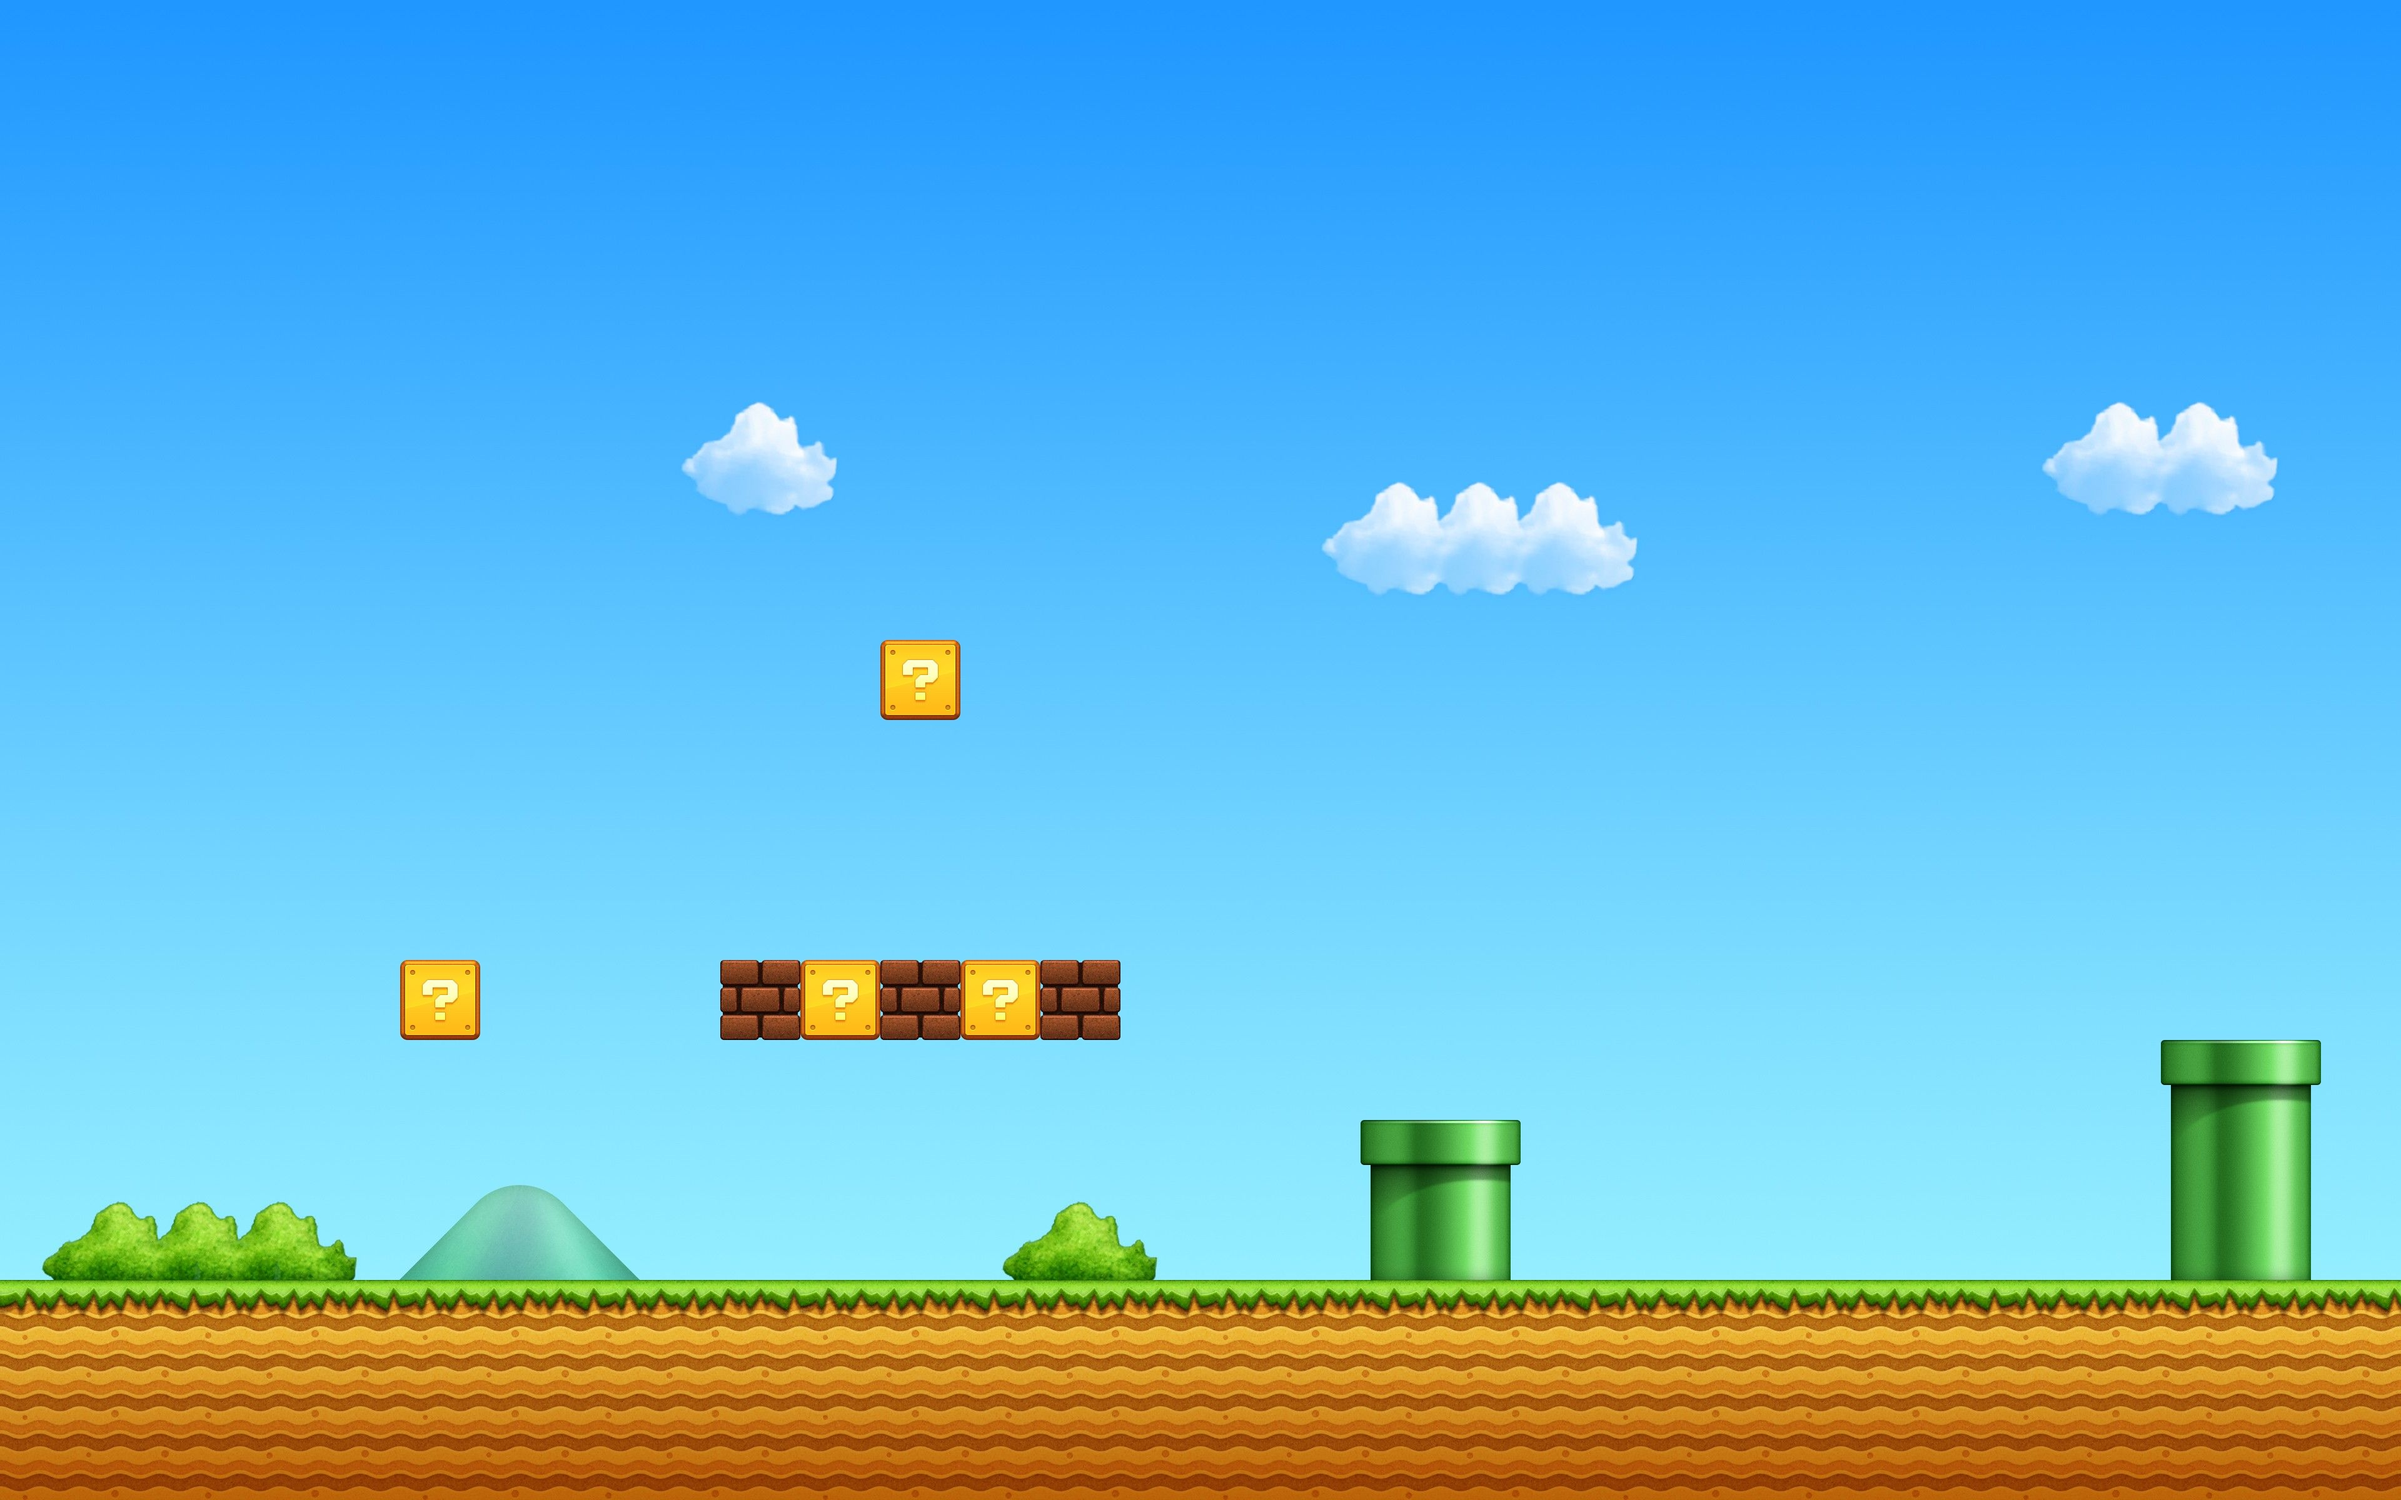
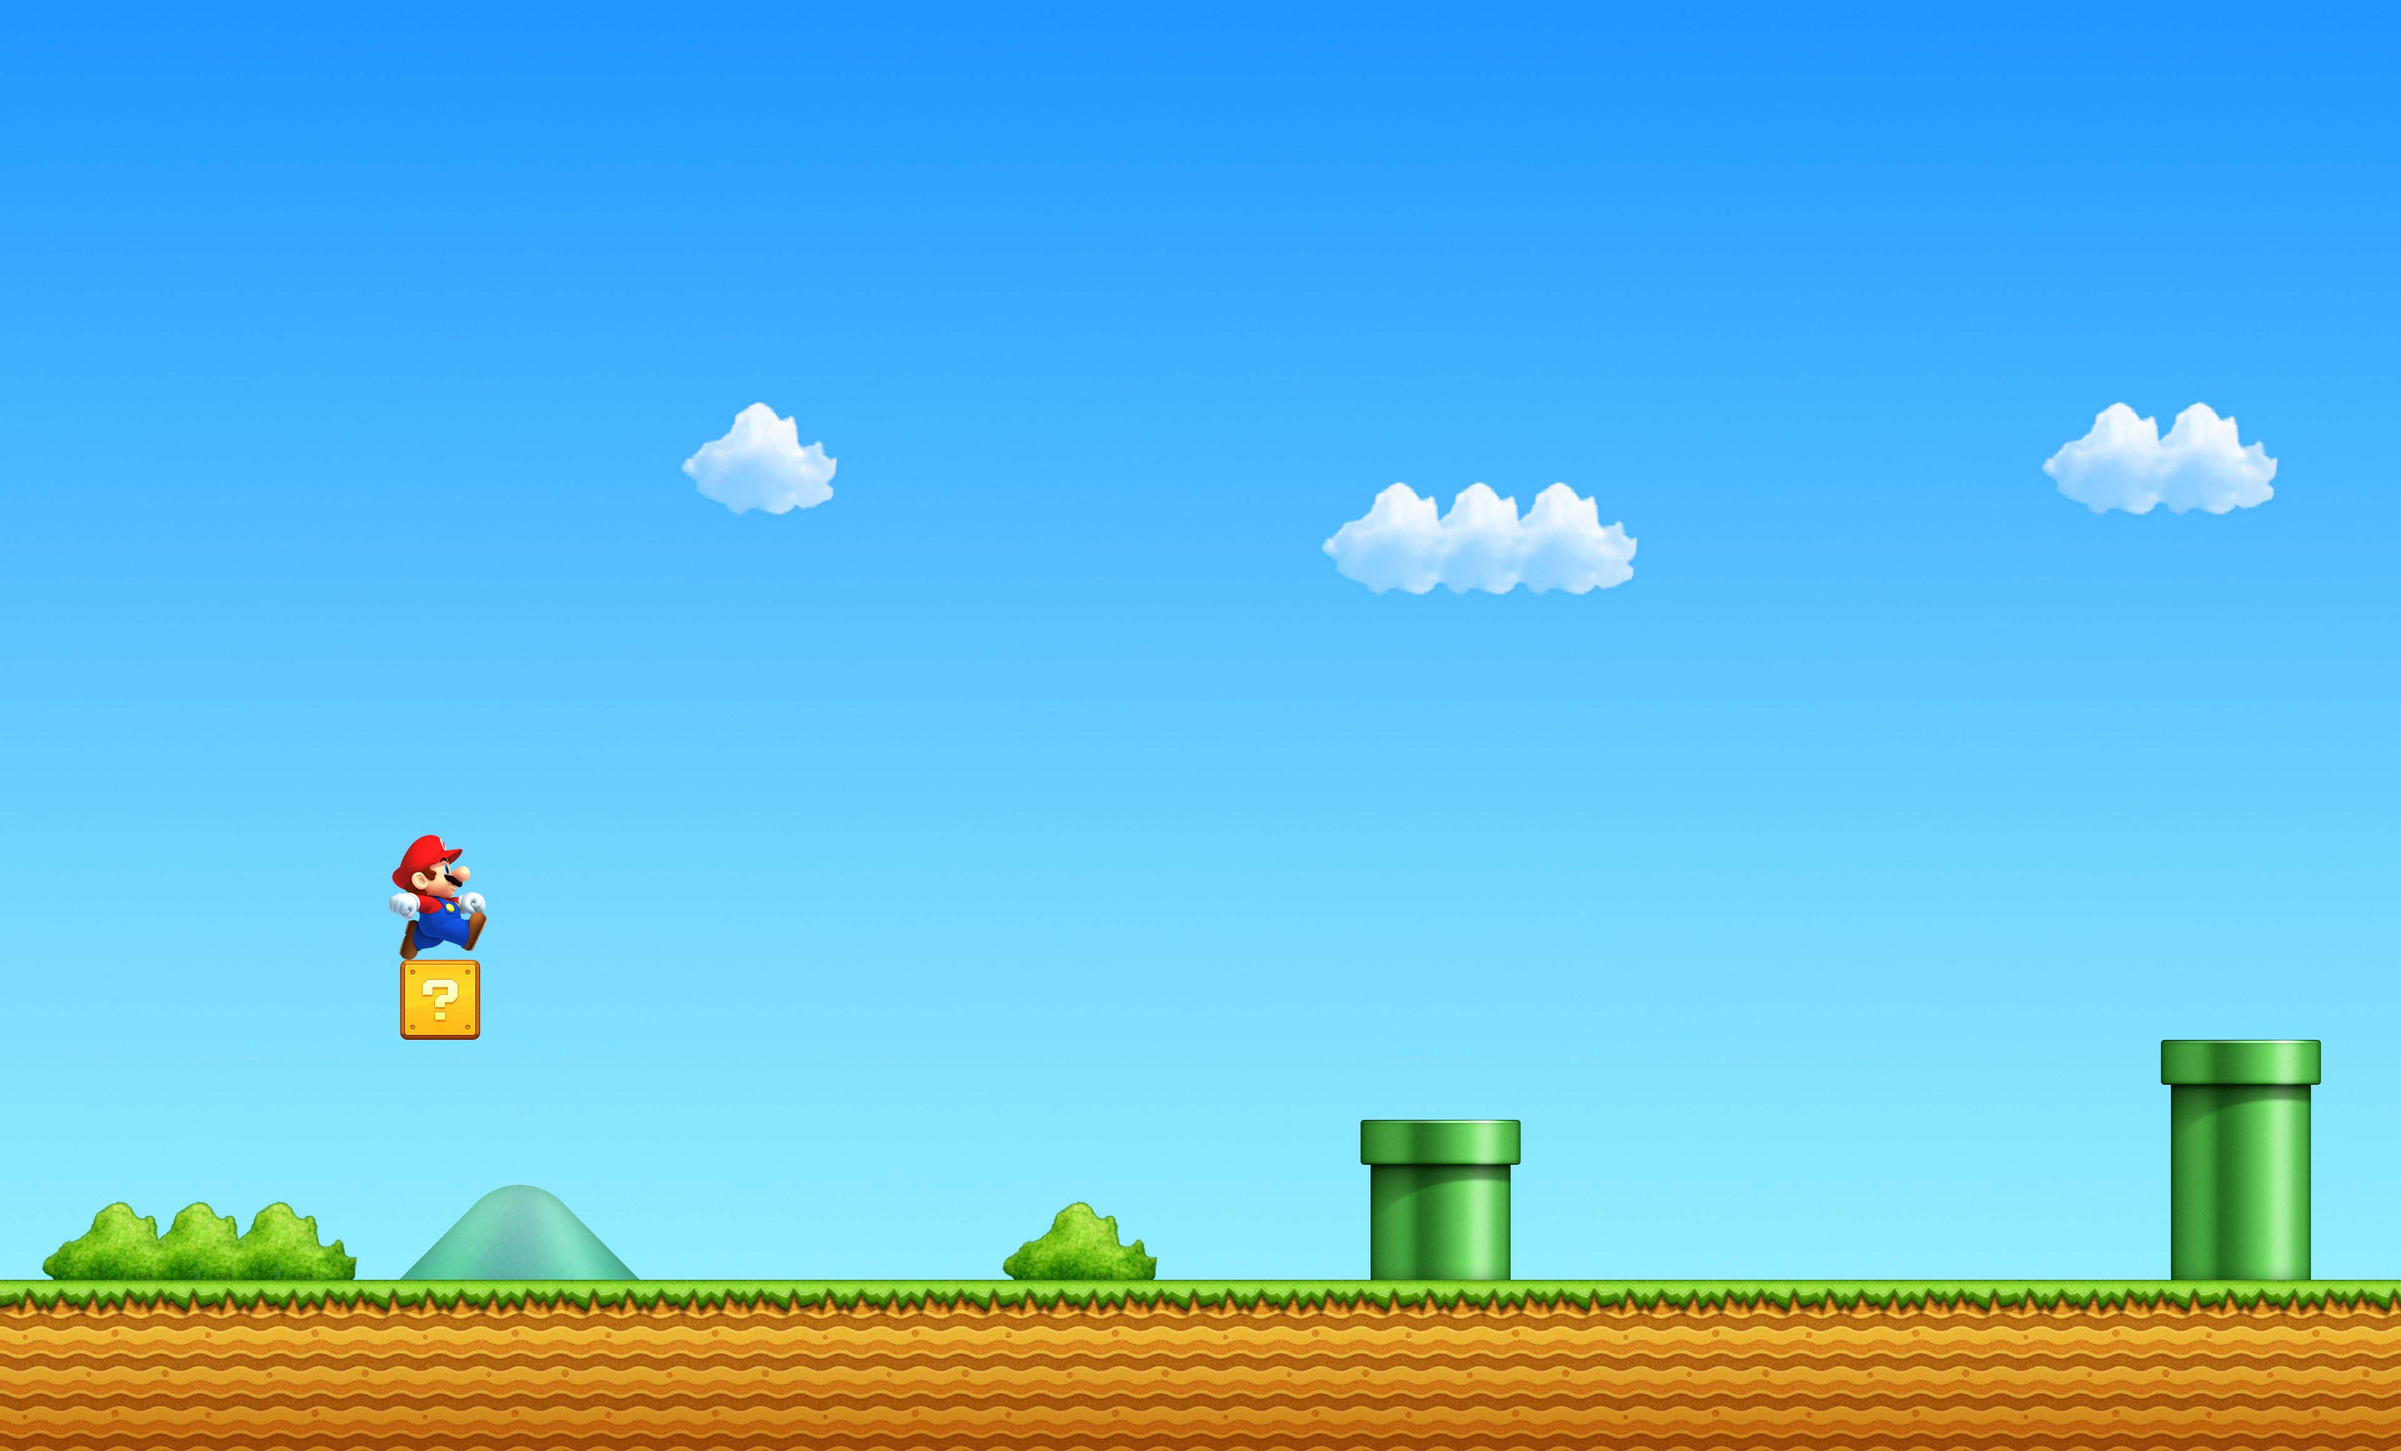
Added mario image jumping

diff --git a/style.css b/style.css
@@ -14,10 +14,16 @@ body {
   background-image: url(/assets/fondo\ mario.jpg);
   background-repeat: no-repeat;
   background-size: cover;
-  background-position: 100% 50% 100%;
+  background-position: bottom;
   width: auto;
   height: 100vh;
   overflow: hidden;
+  bottom: 0;
+}
+
+body:active {
+  background-image: url(/assets/fondo\ mario\ 2.jpg);
+  transition: background-image 0.2s;
 }
 
 .title {
@@ -33,7 +39,6 @@ body {
 h1 {
   font-family: "super-mario";
   font-size: 60px;
-
   text-shadow: 5px 5px 5px red;
   animation: colorh1 5s infinite;
 }
